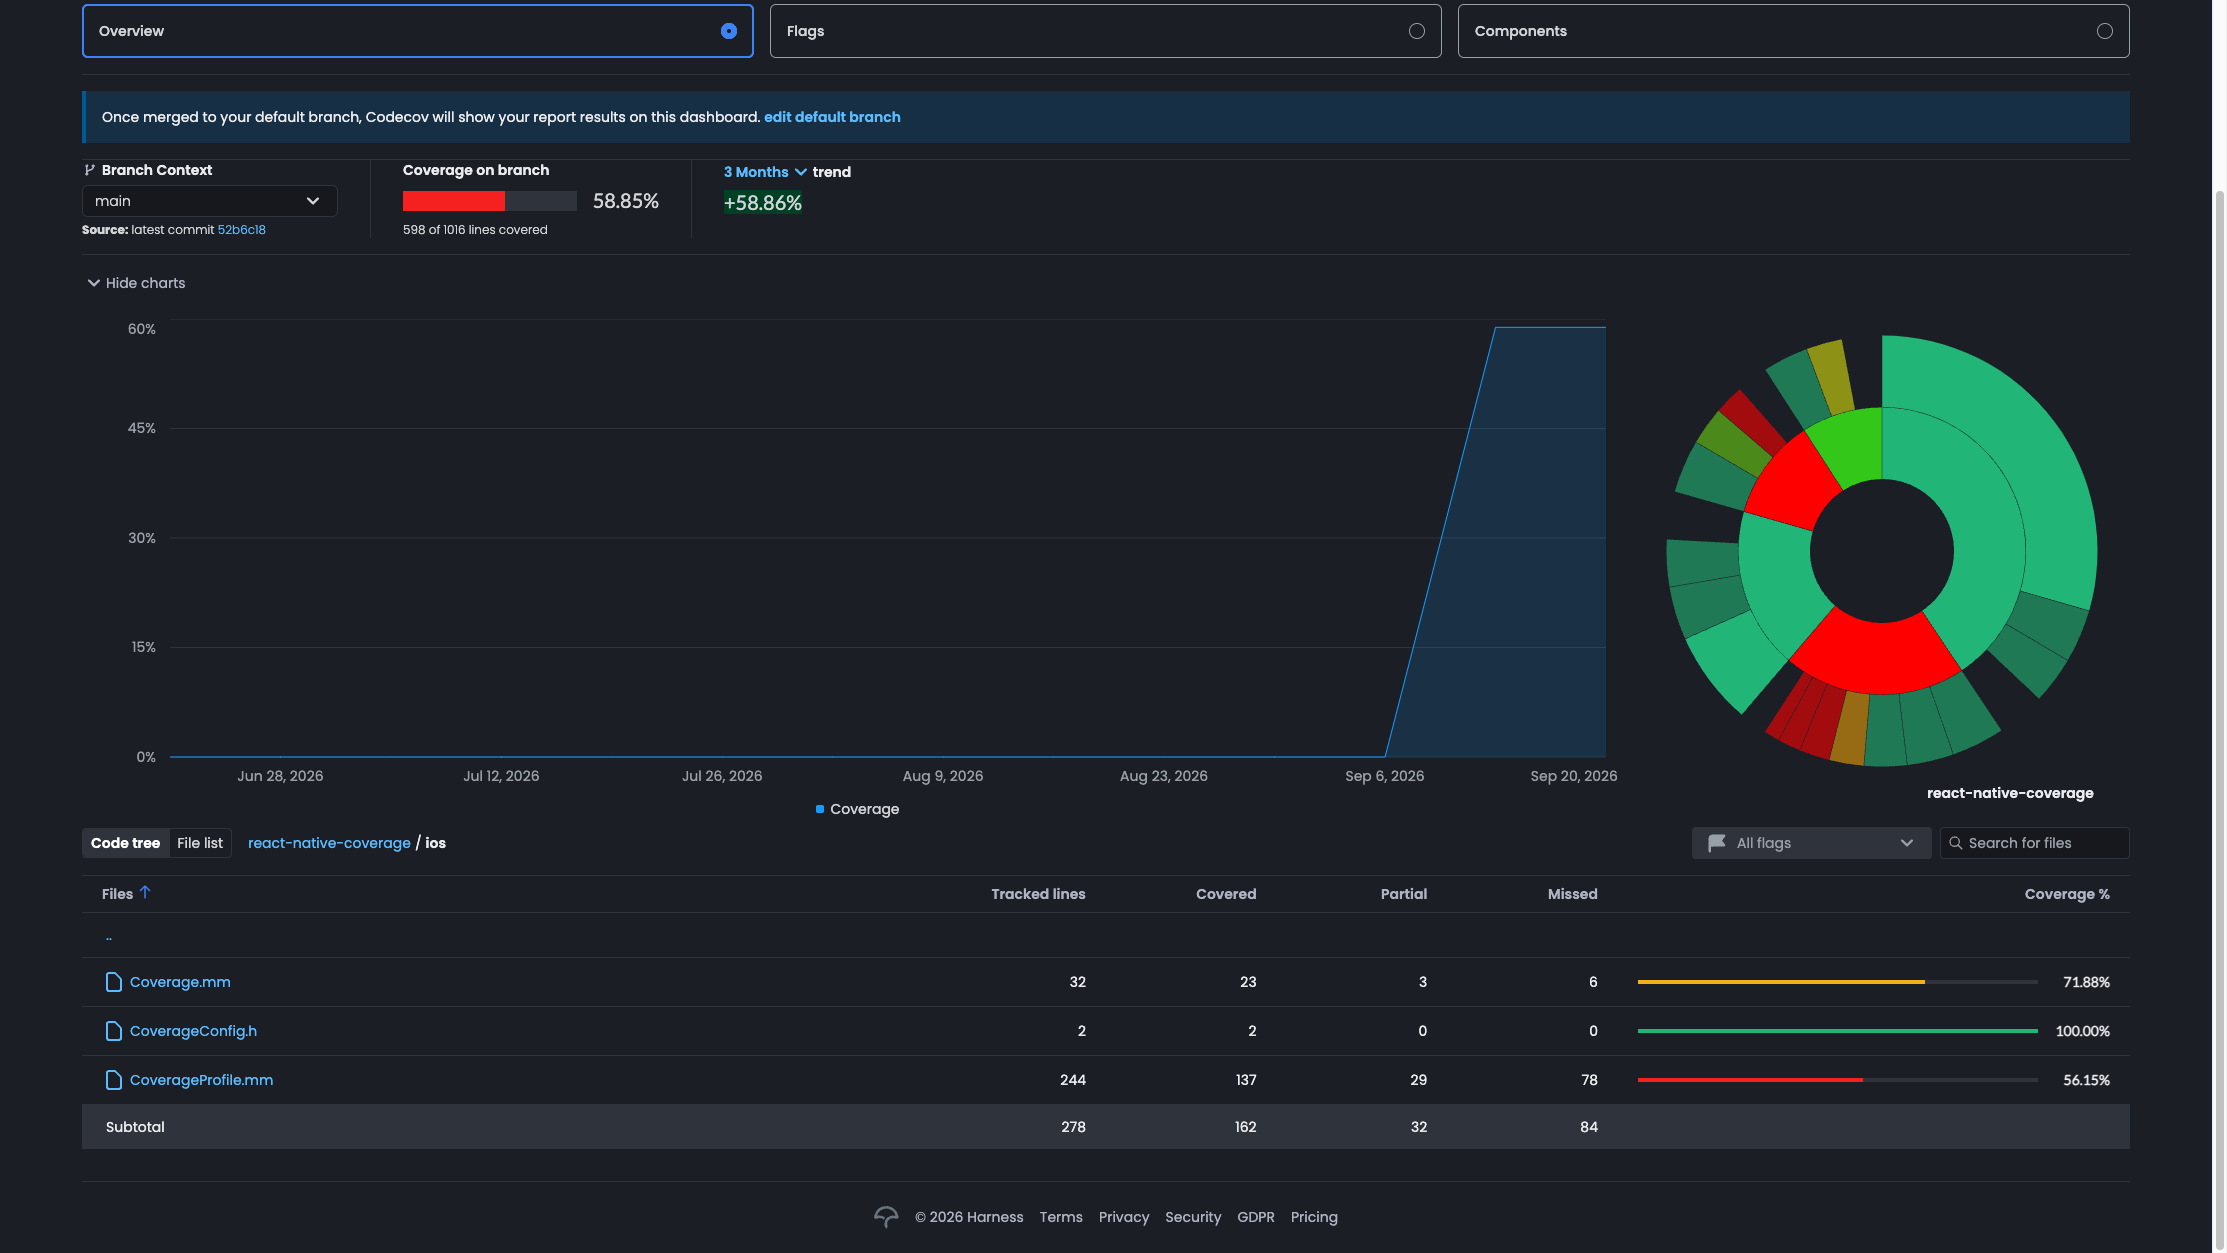
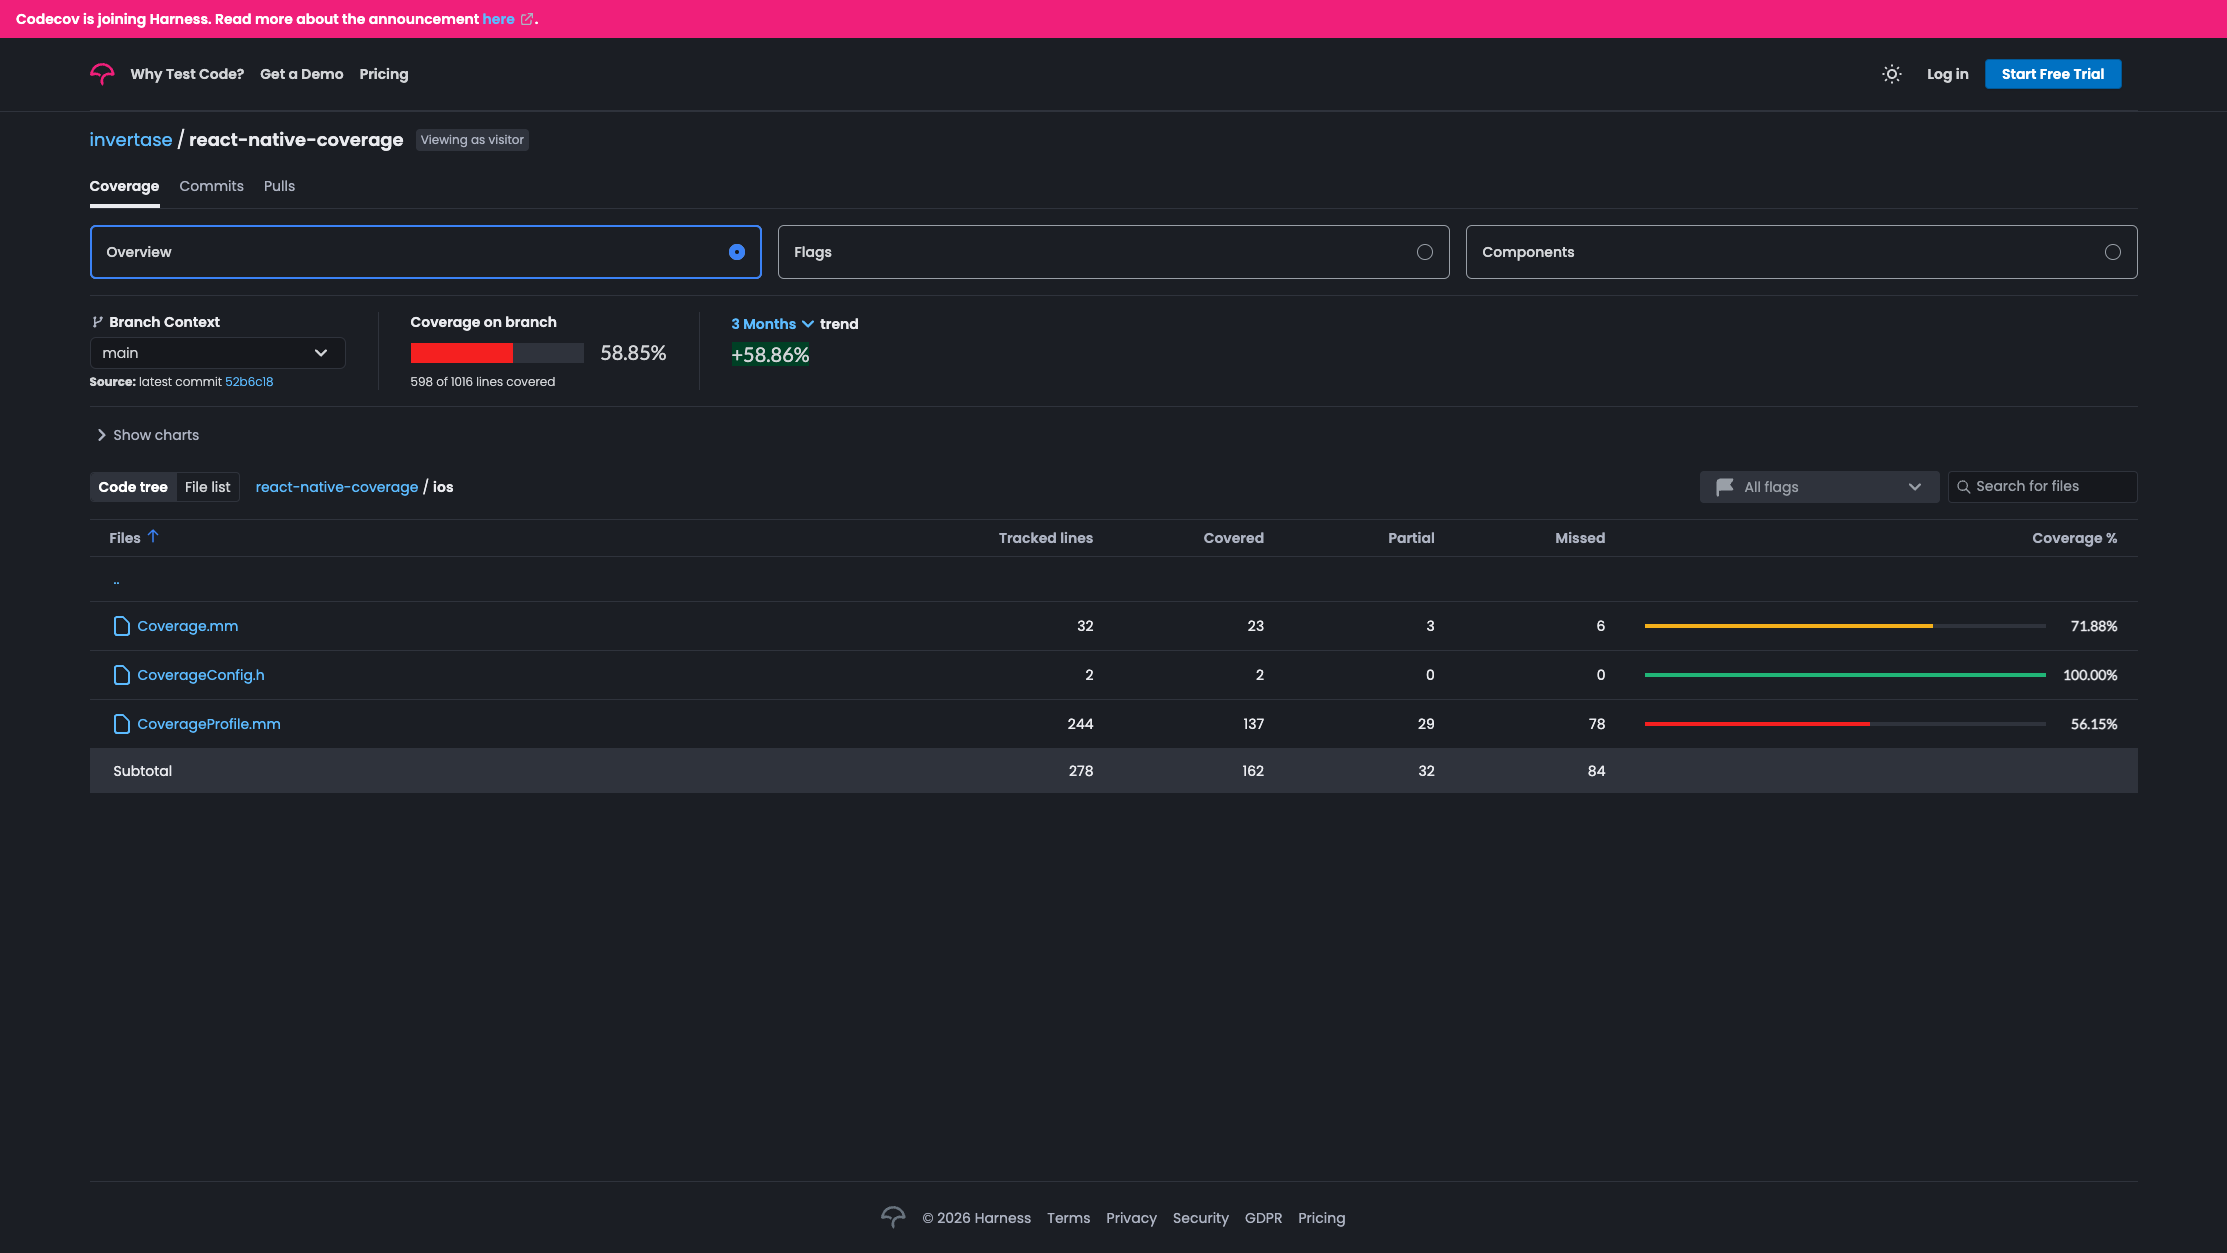
docs: sharpen homepage pitch and drop duplicate visuals
- Lead with the tagline as the H1 (Code coverage; Typescript, iOS, and
  Android; no italics) and drop the repeated tagline line.
- Reorder the pitch: install into a Pattern C test app first, then what
  the module/CLI does — flush, merge every framework .profraw + app
  binary into LCOV/Jacoco, remap instrumented JS line-for-line to TS.
- Reword the CI angle to "use it as a signal in your dev loop or CI to
  gate development iterations or CI pass/fail".
- Replace the language-less arrow code-fence (rendered as a stray
  'text' block on docs.page) with prose across README, index and why.
- Remove the New Arch/TurboModule Info callout from the homepage
  (it stays in the guides).
- Recapture the ios/ Codecov file table with charts hidden so the
  sunburst no longer appears twice.

diff --git a/README.md b/README.md
@@ -4,22 +4,21 @@
   </a>
 </p>
 
-<h1 align="center">react-native-coverage</h1>
-
-<p align="center">
-  <strong>Native code coverage for React Native — iOS <em>and</em> Android — without touching the native stuff.</strong>
-</p>
-
-<p align="center">
-  A TurboModule flushes real device coverage. A CLI pulls it, turns it into LCOV / Jacoco,<br/>
-  and fails your CI when the numbers are empty. That's it.
-</p>
+<h1 align="center">Code coverage for React Native — Typescript, iOS, and Android — without touching the native stuff.</h1>
 
 <p align="center">
   <a href="https://app.codecov.io/gh/invertase/react-native-coverage"><img src="https://codecov.io/gh/invertase/react-native-coverage/branch/main/graph/badge.svg" alt="Codecov" /></a>
   <a href="https://docs.page/invertase/react-native-coverage"><img src="https://img.shields.io/badge/docs-docs.page-E8983A" alt="Docs" /></a>
   <img src="https://img.shields.io/badge/architecture-New%20Arch%20only-2D303A" alt="New Architecture only" />
   <a href="./LICENSE"><img src="https://img.shields.io/badge/license-Apache--2.0-blue" alt="Apache-2.0" /></a>
+</p>
+
+<p align="center">
+  Install it into a dedicated test / e2e harness app (<a href="https://docs.page/invertase/react-native-coverage/pattern-c">Pattern&nbsp;C</a>) — never your shipping app.
+</p>
+
+<p align="center">
+  A TurboModule flushes real device coverage; the CLI pulls it, <strong>merges</strong> every framework's <code>.profraw</code> and the app binary into clean LCOV&nbsp;/&nbsp;Jacoco, and remaps your instrumented JS line-for-line back to TypeScript. Use that as a signal in your development loop or CI to gate development iterations or CI pass/fail.
 </p>
 
 <p align="center">
@@ -49,15 +48,11 @@ JS ran. In an agentic world where a model can rewrite your `.mm` file and swear 
 **that missing evidence is a real problem.** Coverage is the backpressure. It's how you — or
 your agent — prove the native path executed, not just the mock.
 
-`react-native-coverage` makes that evidence a one-liner:
+`react-native-coverage` makes that evidence a one-liner: flush from the TurboModule, `rn-coverage pull`
+to merge the scattered native counters and remap your JS back to TypeScript, then `rn-coverage assert`
+to turn "did the native path actually run?" into a pass/fail signal for your dev loop or CI.
 
-```
-Coverage.flush()  →  rn-coverage pull  →  LCOV / Jacoco  →  rn-coverage assert (fail CI if empty)
-```
-
-No Podfile regex. No profraw archaeology. No Gradle spelunking. New Architecture only,
-[Pattern C](https://docs.page/invertase/react-native-coverage/pattern-c) (dedicated test
-apps only — never your shipping app).
+No Podfile regex. No profraw archaeology. No Gradle spelunking.
 
 ---
 
